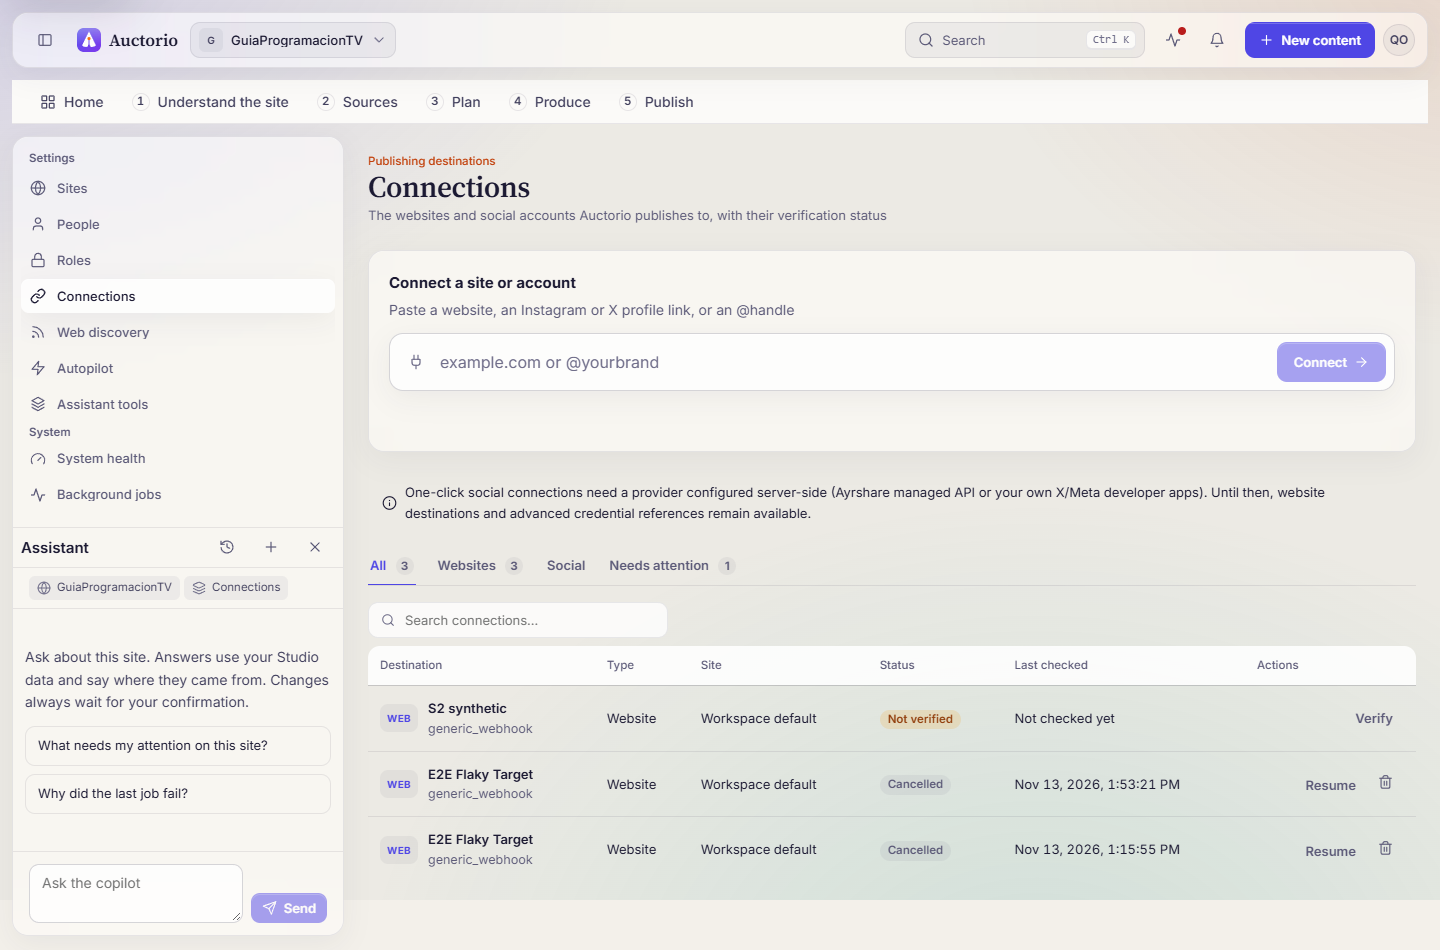
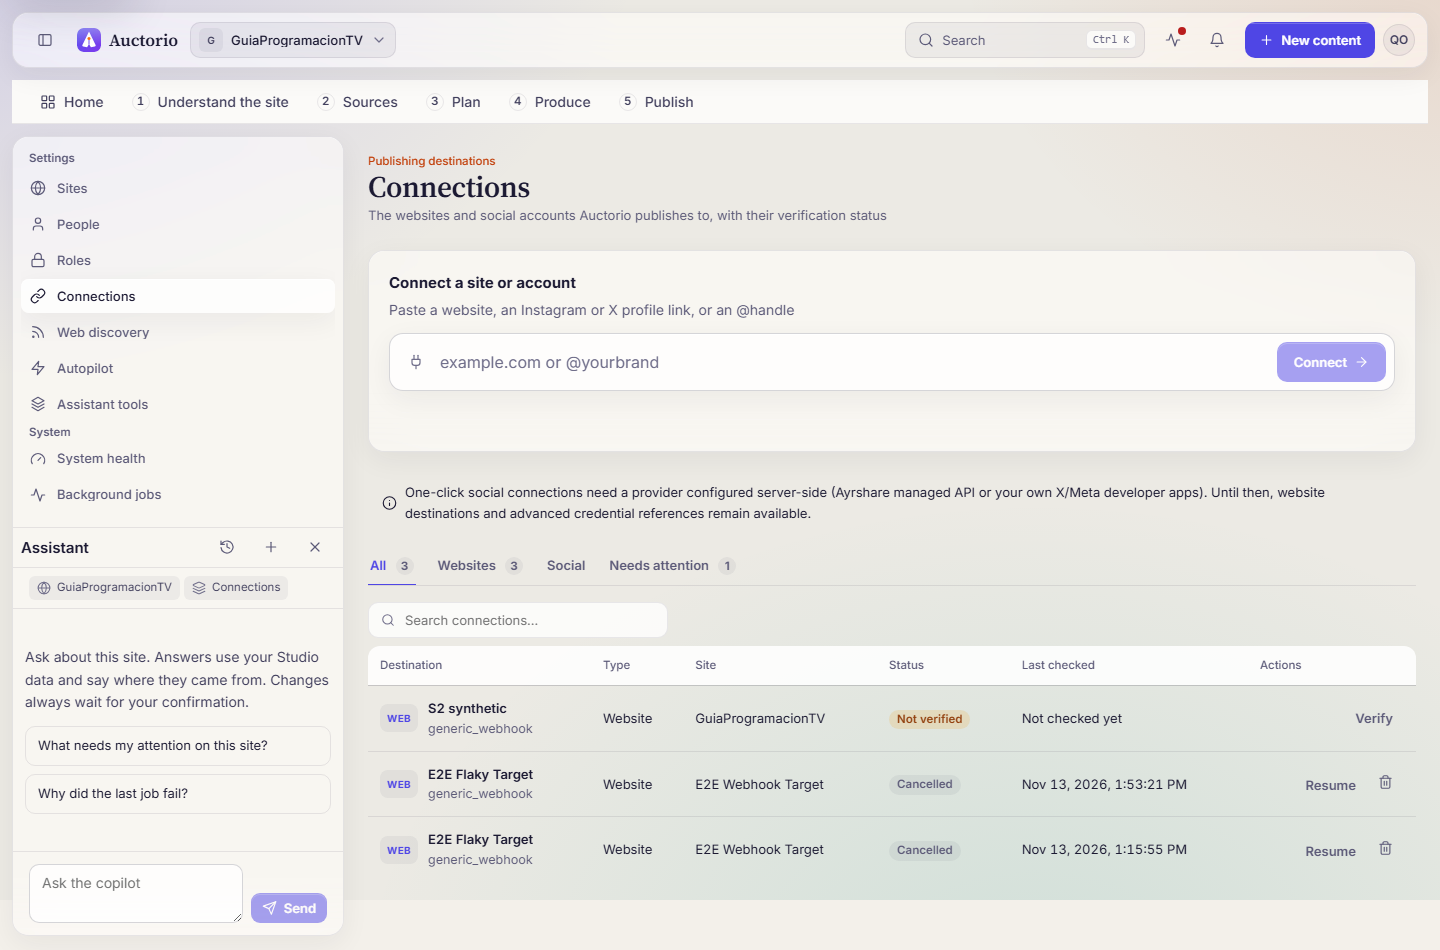
feat(studio): Connections site link by origin, a11y fixes, HTTP readiness contract test, STUDIO-02 evidence

diff --git a/tests/destination-readiness.test.ts b/tests/destination-readiness.test.ts
@@ -73,3 +73,63 @@ test("synthetic GuiaTV installation without PublishingAccount appears once, not 
     await prisma.tenant.deleteMany({ where: { id: { in: [a.tenant.id, b.tenant.id] } } });
   }
 });
+
+import Fastify from "fastify";
+import { registerStudioRoutes } from "../src/studio/routes";
+
+function server(tenantId: string) {
+  const s = Fastify();
+  s.decorateRequest("tenantId", "");
+  s.decorateRequest("studioPermissions", []);
+  s.addHook("preHandler", async (r) => {
+    r.tenantId = tenantId;
+    r.studioPermissions = ["workspace.manage", "publishing.manage", "integrations.manage", "analytics.read"];
+  });
+  registerStudioRoutes(s);
+  return s;
+}
+
+test("HTTP: overview dedupes legacy account, hides disabled/revoked, isolates tenants; list links site by origin", async () => {
+  process.env.SOCIAL_TOKEN_ENCRYPTION_KEY = process.env.SOCIAL_TOKEN_ENCRYPTION_KEY || "test-only-encryption-key";
+  const prisma = getPrismaClient();
+  const seed = `dest-http-${Date.now()}-${Math.random().toString(16).slice(2, 8)}`;
+  const mkTenant = (n: string) => prisma.tenant.create({ data: { name: `${seed}-${n}`, apiKeyHash: sha256(`${seed}-${n}`), status: "active" } });
+  const [ta, tb] = [await mkTenant("a"), await mkTenant("b")];
+  const site = await prisma.site.create({ data: { tenantId: ta.id, key: seed, name: "GuiaTV", type: "guiatv", baseUrl: "https://guiatv-http.example" } });
+  try {
+    await prisma.publishingAccount.create({
+      data: { tenantId: ta.id, siteId: site.id, platform: "website", displayName: "Legacy GuiaTV", status: "active", enabled: true },
+    });
+    const mk = (state: "active" | "disabled" | "cancelled" | "failed", extra: object = {}) =>
+      prisma.connectorInstallation.create({
+        data: { tenantId: ta.id, kind: "website", provider: "generic_webhook", state, siteId: site.id, config: { baseUrl: "https://guiatv-http.example" }, ...extra },
+      });
+    await mk("active");
+    await mk("disabled");
+    await mk("cancelled");
+    await mk("failed");
+    const a = server(ta.id);
+    const res = await a.inject({ method: "GET", url: "/v2/overview" });
+    assert.equal(res.statusCode, 200);
+    const web = (res.json().connections as Array<{ platform: string; readiness?: string; displayName: string }>).filter((c) => c.platform === "website");
+    assert.equal(web.length, 1, "legacy account + active install + non-active installs must collapse to one row");
+    assert.equal(web[0].readiness, "not_verified");
+
+    const b = await server(tb.id).inject({ method: "GET", url: "/v2/overview" });
+    assert.equal((b.json().connections as unknown[]).length, 0);
+
+    await prisma.connectorInstallation.deleteMany({ where: { tenantId: ta.id } });
+    await prisma.connectorInstallation.create({
+      data: { tenantId: ta.id, kind: "website", provider: "generic_webhook", state: "active", config: { baseUrl: "https://www.guiatv-http.example/" } },
+    });
+    const list = await a.inject({ method: "GET", url: "/v2/connector-installations" });
+    assert.equal(list.json().items[0].siteId, site.id);
+    assert.ok(!JSON.stringify(list.json()).includes("credentialsCiphertext"));
+  } finally {
+    const ids = [ta.id, tb.id];
+    await prisma.connectorInstallation.deleteMany({ where: { tenantId: { in: ids } } });
+    await prisma.publishingAccount.deleteMany({ where: { tenantId: { in: ids } } });
+    await prisma.site.deleteMany({ where: { tenantId: { in: ids } } });
+    await prisma.tenant.deleteMany({ where: { id: { in: ids } } });
+  }
+});

diff --git a/apps/studio-web/src/app/pages/overview-page.component.ts b/apps/studio-web/src/app/pages/overview-page.component.ts
@@ -45,11 +45,11 @@ type DayItem = { item: EditorialPlanItem; title: string; chip: PlanChip };
 
       <dl class="ov__kpis" aria-label="Key figures">
         @if (overview(); as o) {
-          <div><dt>Published today</dt><dd>{{ o.today.articlesPublished }}</dd><span>of {{ o.today.articlesPlanned }} planned</span></div>
-          <div><dt>Waiting for review</dt><dd>{{ o.pipeline.review }}</dd><span>{{ o.pipeline.drafts }} drafts in progress</span></div>
-          <div><dt>Scheduled</dt><dd>{{ o.pipeline.scheduled }}</dd><span>ready to go out</span></div>
-          <div [class.is-bad]="o.pipeline.failed > 0"><dt>Failed</dt><dd>{{ o.pipeline.failed }}</dd><span>{{ o.pipeline.failed ? 'need a retry' : 'nothing to fix' }}</span></div>
-          <div><dt>Next 7 days</dt><dd>{{ weekTopicCount() }}</dd><span>topics planned</span></div>
+          <div><dt>Published today</dt><dd>{{ o.today.articlesPublished }}</dd><dd class="ov__sub">of {{ o.today.articlesPlanned }} planned</dd></div>
+          <div><dt>Waiting for review</dt><dd>{{ o.pipeline.review }}</dd><dd class="ov__sub">{{ o.pipeline.drafts }} drafts in progress</dd></div>
+          <div><dt>Scheduled</dt><dd>{{ o.pipeline.scheduled }}</dd><dd class="ov__sub">ready to go out</dd></div>
+          <div [class.is-bad]="o.pipeline.failed > 0"><dt>Failed</dt><dd>{{ o.pipeline.failed }}</dd><dd class="ov__sub">{{ o.pipeline.failed ? 'need a retry' : 'nothing to fix' }}</dd></div>
+          <div><dt>Next 7 days</dt><dd>{{ weekTopicCount() }}</dd><dd class="ov__sub">topics planned</dd></div>
         } @else {
           @for (n of [1, 2, 3, 4, 5]; track n) { <div class="is-loading"><dt>&nbsp;</dt><dd>&nbsp;</dd></div> }
         }
@@ -257,8 +257,8 @@ type DayItem = { item: EditorialPlanItem; title: string; chip: PlanChip };
       .ov__kpis > div { display: flex; flex-direction: column; gap: 2px; padding: var(--au-s4); border: 1px solid var(--au-border); border-radius: 14px; background: var(--au-surface); box-shadow: var(--au-shadow-glass); }
       .ov__kpis dt { color: var(--au-muted); font-size: var(--au-fs-caption); }
       .ov__kpis dd { margin: 0; font: 600 26px/1.15 var(--au-font); font-variant-numeric: tabular-nums; }
-      .ov__kpis span { color: var(--au-faint); font-size: var(--au-fs-caption); }
-      .ov__kpis .is-bad dd { color: var(--au-danger); }
+      .ov__kpis dd.ov__sub { font: 400 var(--au-fs-caption) var(--au-font); color: var(--au-faint); }
+      .ov__kpis .is-bad dd:not(.ov__sub) { color: var(--au-danger); }
       .ov__kpis .is-loading { min-height: 88px; }
       .ov__card { padding: var(--au-s5); display: flex; flex-direction: column; gap: var(--au-s4); }
       .ov__card-head { display: flex; align-items: flex-start; justify-content: space-between; gap: var(--au-s3); }

diff --git a/apps/studio-web/src/app/pages/connections-page.component.ts b/apps/studio-web/src/app/pages/connections-page.component.ts
@@ -155,7 +155,7 @@ type ConnectionRow = {
                 <button class="au-btn au-btn--ghost au-btn--sm" type="button" *ngIf="row.installation && resumable(row.installation)" (click)="resume(row.installation)">
                   {{ row.installation.state === 'ready' ? 'Activate' : row.installation.state === 'active' ? 'Verify' : 'Resume' }}
                 </button>
-                <button class="au-btn au-btn--ghost au-btn--sm" type="button" *ngIf="row.website || row.social || (row.installation && !isActive(row.installation))" (click)="remove(row)" [disabled]="busyId === row.id">
+                <button class="au-btn au-btn--ghost au-btn--sm" type="button" *ngIf="row.website || row.social || (row.installation && !isActive(row.installation))" (click)="remove(row)" [disabled]="busyId === row.id" [attr.aria-label]="'Remove ' + row.displayName">
                   <app-icon name="trash"></app-icon>
                 </button>
               </td>

diff --git a/src/studio/routes-connectors.ts b/src/studio/routes-connectors.ts
@@ -133,7 +133,15 @@ export function registerConnectorRoutes(fastify: FastifyInstance) {
       ...(query.kind ? { kind: query.kind as "website" | "x" | "instagram" } : {}),
       ...(query.state ? { state: query.state as (typeof STATES)[number] } : {}),
     });
-    return reply.send({ items });
+    // Read-only link by normalized origin so unlinked installs show their site; nothing is persisted.
+    const linked = await Promise.all(
+      items.map(async (item) => {
+        const baseUrl = (item.config as { baseUrl?: unknown } | null)?.baseUrl;
+        if (item.siteId || item.kind !== "website" || typeof baseUrl !== "string") return item;
+        return { ...item, siteId: await findSiteIdByOrigin(context.tenantId, baseUrl) };
+      }),
+    );
+    return reply.send({ items: linked });
   });
 
   fastify.post("/v2/connector-installations", async (request, reply) => {

diff --git a/docs/studio-rebuild/runtime/STUDIO-02-destination-readiness.md b/docs/studio-rebuild/runtime/STUDIO-02-destination-readiness.md
@@ -17,10 +17,13 @@ Worker (`worker-connection.ts`) now persists probe outcomes under `capabilities.
 - `tests/destination-readiness.test.ts` (6) incl. synthetic GuíaTV installation without PublishingAccount → exactly once, `not_verified`, two-tenant isolation, no ciphertext in output: PASS (local DB). `connector-routes`, `connector-registry`, `site-isolation`: 15/15 PASS.
 - Not covered by tests: wrong-tenant at HTTP level, revoked/stale installation states beyond `active`, read-only probe for `canPublish` (no probe exists; stays unknown).
 
+## Completion pass (runtime, `npm run dev` Studio :4420 / API :4301, Playwright Chromium)
+- Connections now resolves the site of an unlinked installation by normalized origin (read-only, `GET /v2/connector-installations`); row shows `GuiaProgramacionTV`, "Not verified", Verify action at 1440/1024/390.
+- Site switch: Overview "Publishing to" shows the GuiaTV destination (Not verified, Verify) and, after switching to Tecnoria, "No destinations yet" (no stale or tenant-wide row).
+- Accessibility (axe-core wcag2a/aa, Overview and Connections at 1440): found `button-name` (icon-only Remove button) and `definition-list` (`<span>` inside `<dl>` KPI groups); both fixed; re-run: 0 violations. Verify action reachable by keyboard focus.
+- Tests: new HTTP contract test (legacy account + active + disabled + cancelled + failed installs collapse to one row; second tenant sees none; list links site by origin; no ciphertext). Full compiled backend suite: 474/474 pass. Screenshots: `evidence/studio-02/` (overview/connections 1440, 1024, 390; overview-switched-1440).
+- Synthetic installation removed after the run. Local QA password hash was reset to the `.env` value.
+
 ## Dimension verdicts
-IMPLEMENTATION PASS · FUNCTIONALITY PARTIAL · UX/UI PARTIAL (1440 and 390 captured in evidence/studio-02; 1024 not captured) · ACCESSIBILITY not audited · SECURITY PASS (tenant-scoped, no secrets) · INTEGRATION PARTIAL · REGRESSION PARTIAL (targeted suites only; full `npm test` not run) · PRODUCTION READINESS BLOCKED (no deploy/live credentials).
-## Runtime evidence (`npm run dev`, Studio :4420, API :4301)
-Synthetic active website installation (no PublishingAccount, unlinked, `config.baseUrl` = GuíaTV origin) in the QA tenant: real `/v2/overview` returned exactly one row, `siteId` linked by origin, `readiness: not_verified`, all checks null/false. Overview shows "not verified" with a Verify link; Connections shows "Not verified" with a Verify action. Screenshots: `docs/studio-rebuild/evidence/studio-02/`. Synthetic row deleted afterwards.
-Known gap: Connections still shows "Workspace default" as site for an installation whose `siteId` is null in the DB (origin linking is only applied in `/v2/overview`).
-Local QA password hash was reset to the `.env` value (disposable local DB).
+IMPLEMENTATION PASS · FUNCTIONALITY PASS · UX/UI PASS (1440/1024/390) · ACCESSIBILITY PASS (axe wcag2a/aa on the two pages, 1440; no screen-reader pass) · SECURITY PASS · INTEGRATION PARTIAL (`canPublish`/last publication stay unknown until a publish probe exists; no live destination used) · REGRESSION PASS (474/474 backend; Angular specs and e2e suite not run) · PRODUCTION READINESS BLOCKED (no deploy or live credentials, by rule).
 Independent review: skipped by standing instruction.
